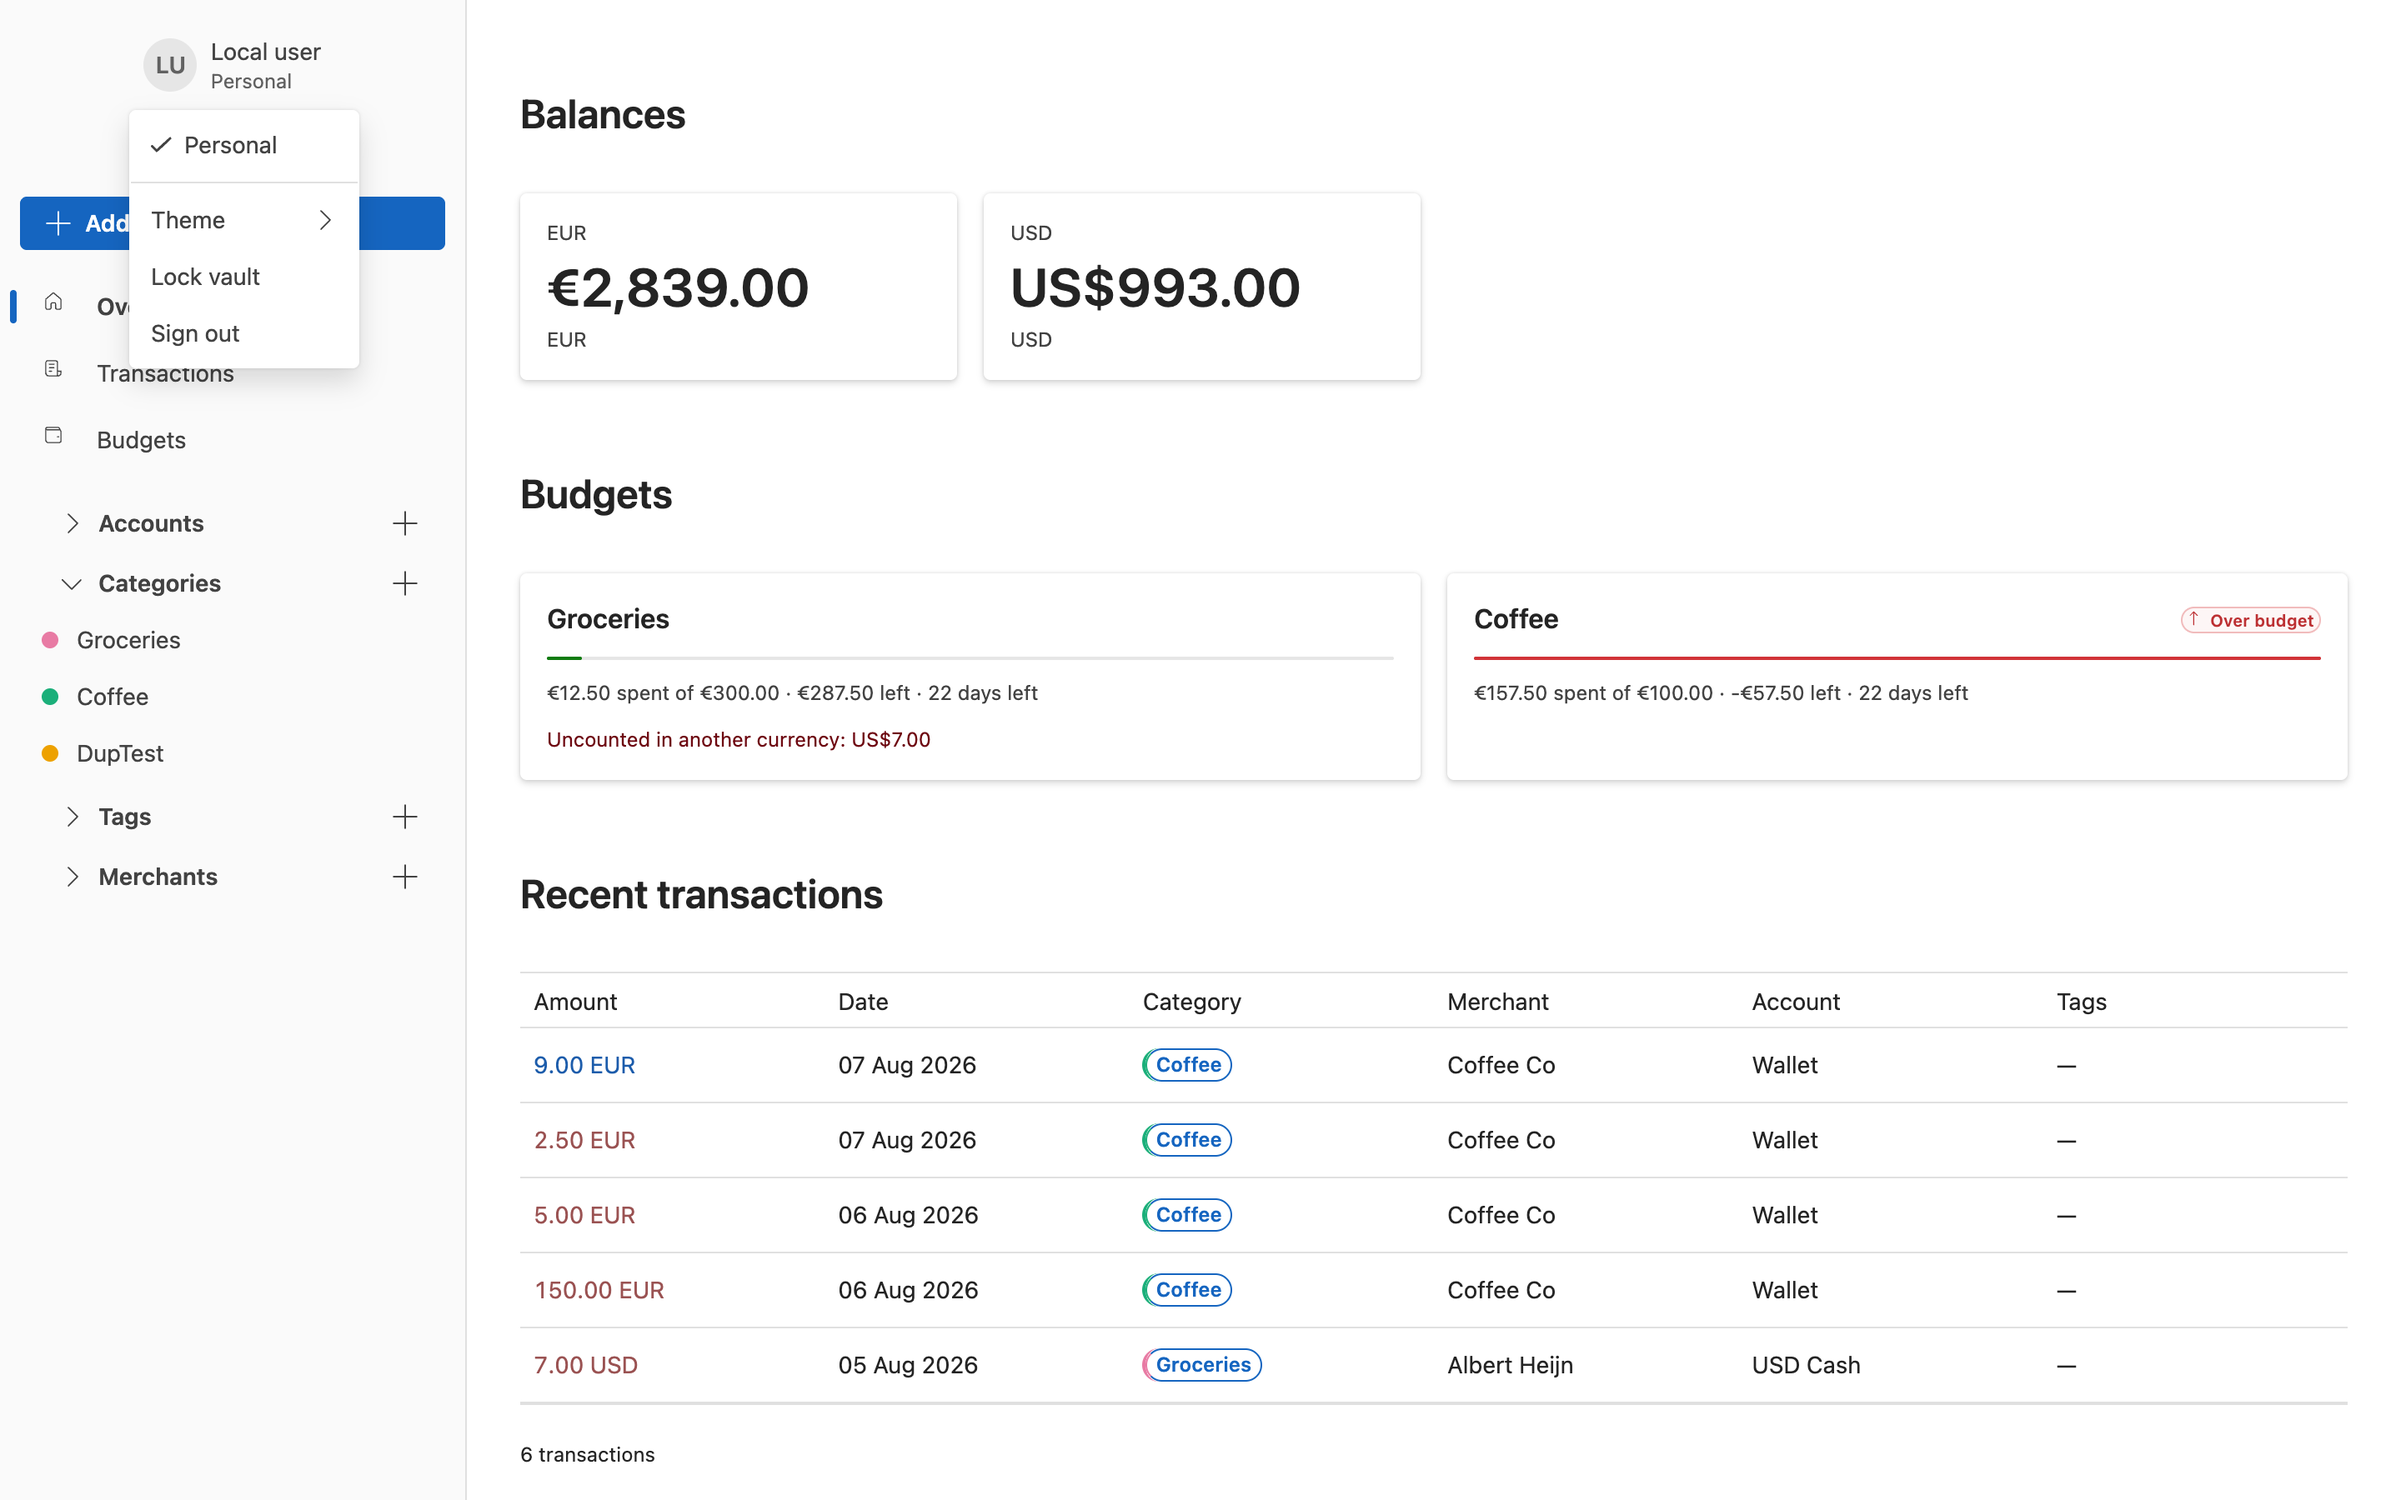
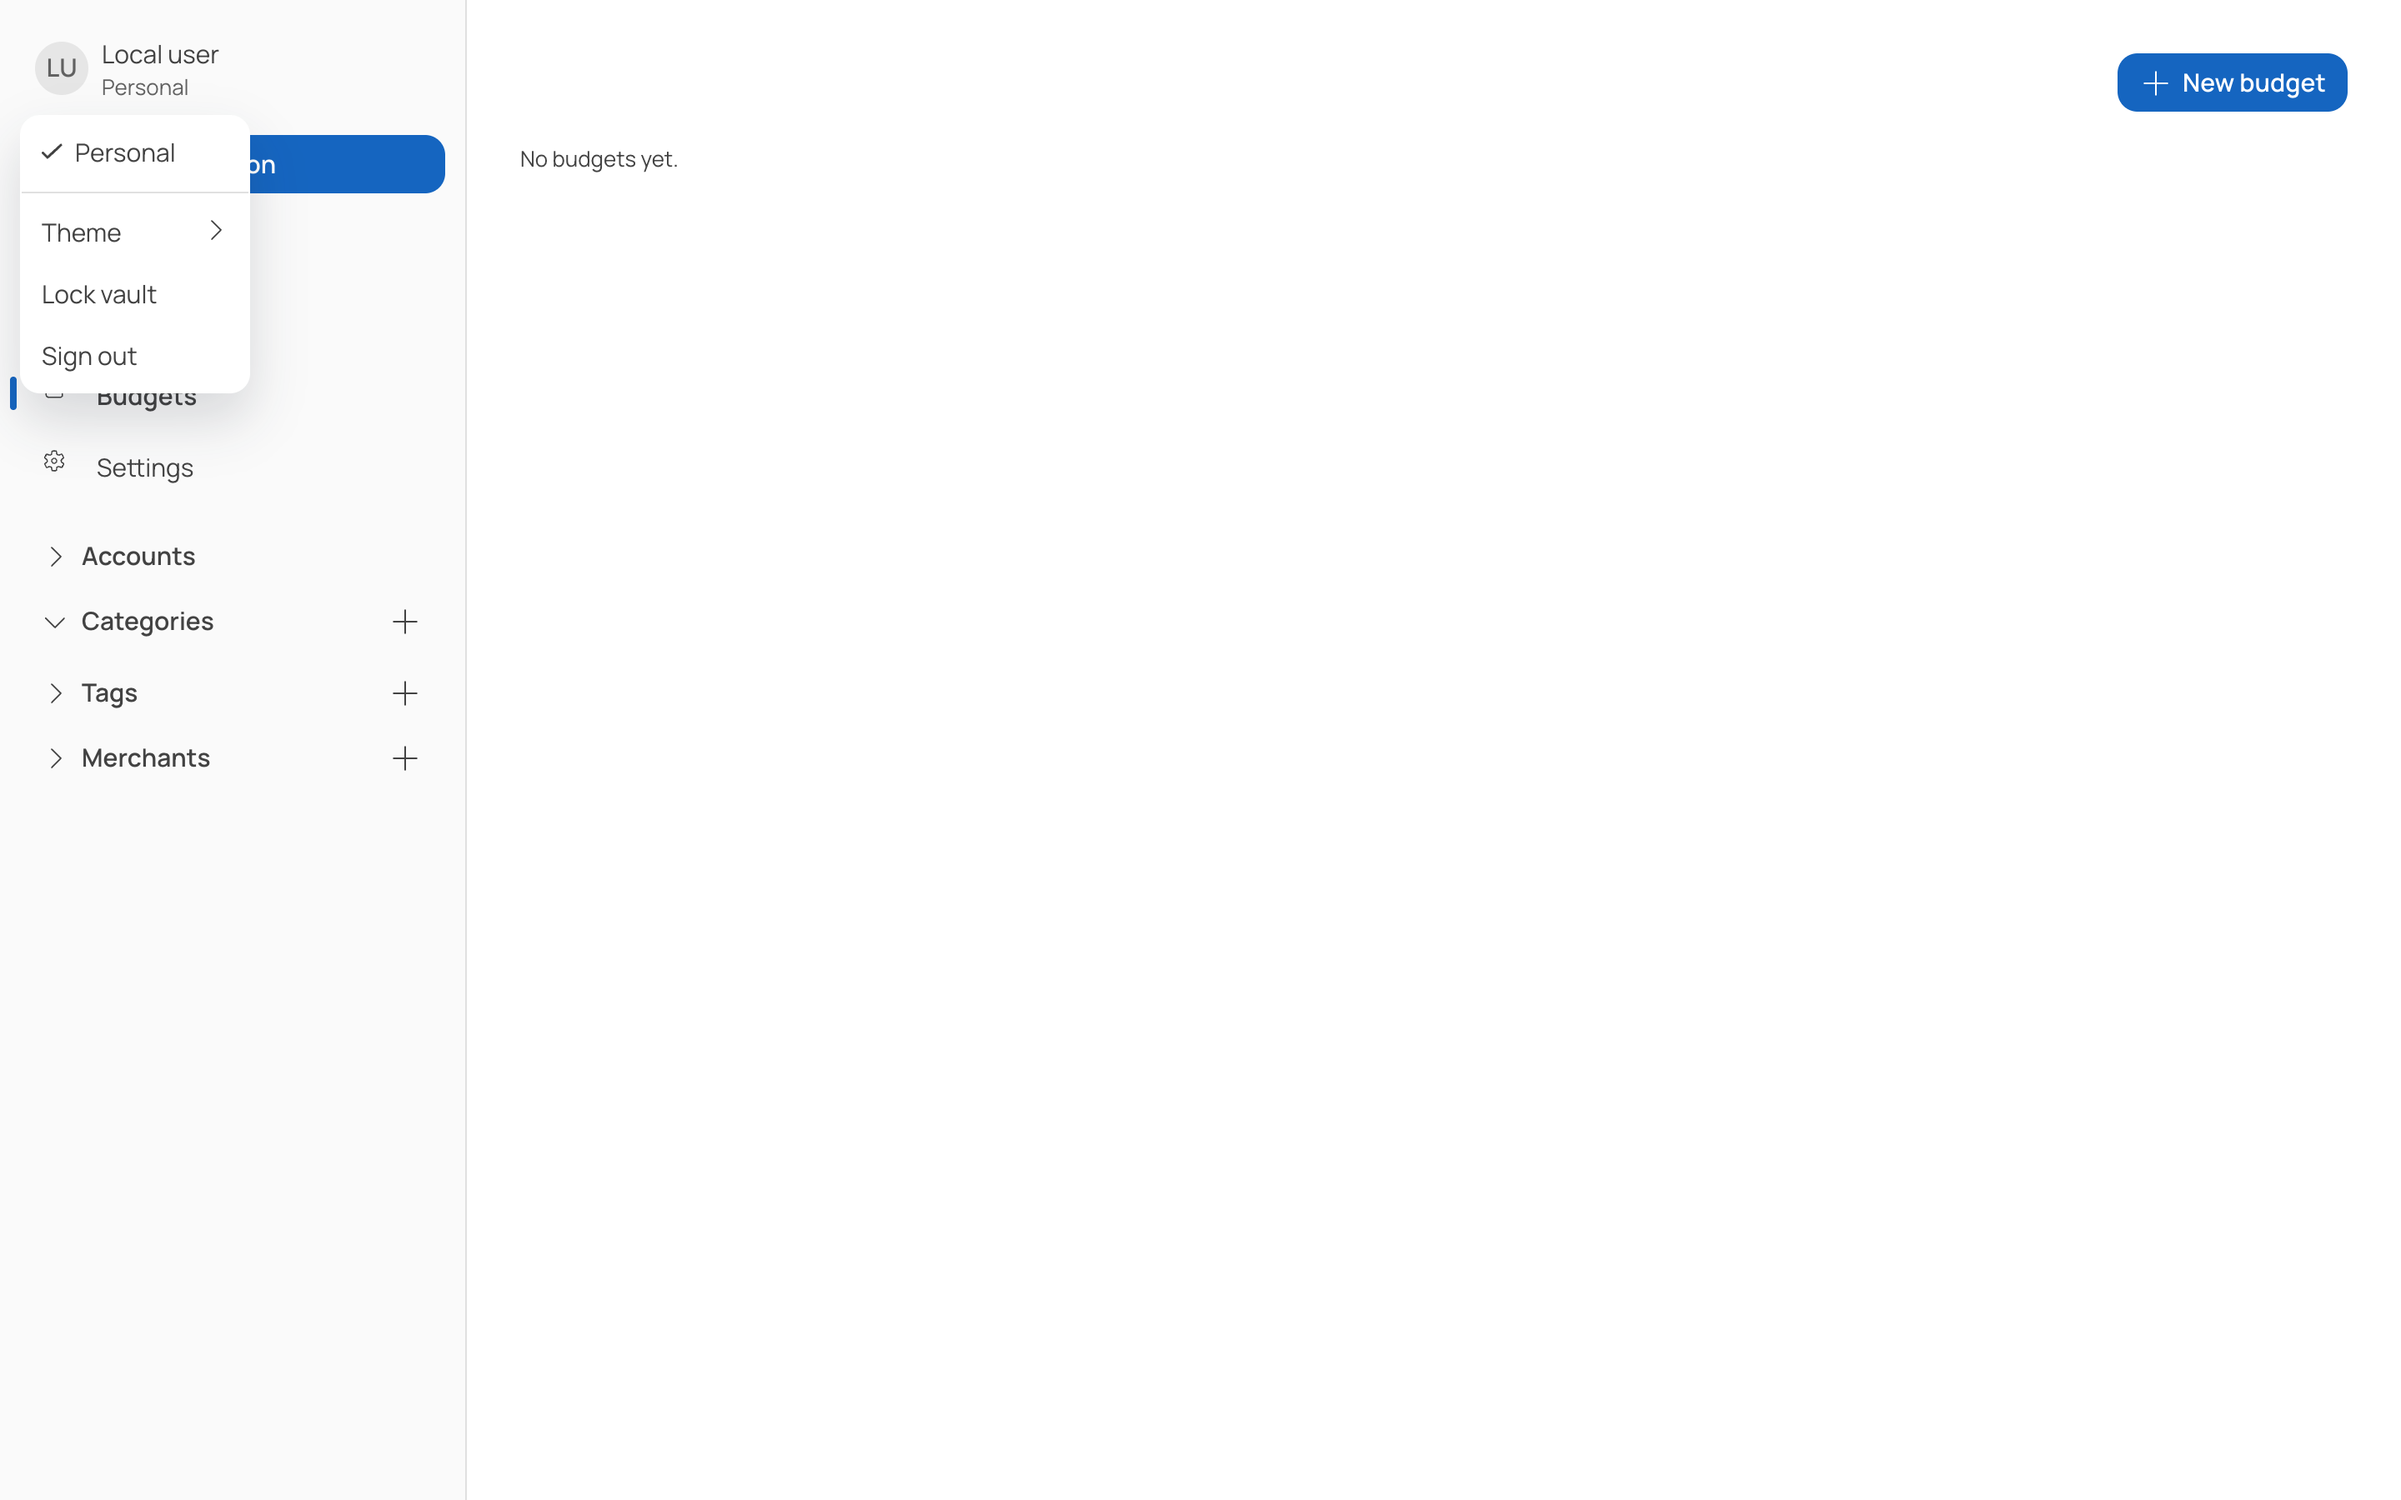
docs: bring the guides back in line with the app
The guides were written before this session's changes and several statements had
since become false: accounts were said to be created from a sidebar plus rather
than the settings page, the opening balance was described as minor units, tag
colours as two free-text hex fields, and the date and time as separate entries.
Each is corrected, and the documented gaps now include that the vault's lock
timing is not yet adjustable.

Screenshots are retaken against the current interface and note that they show a
fresh install, since an encrypted ledger starts empty.

diff --git a/README.md b/README.md
@@ -26,10 +26,10 @@ operator-initiated password reset.
 | Area | Description |
 | --- | --- |
 | Authentication | Passkey-based. A single passkey both authenticates the user and unlocks the encrypted vault |
-| Accounts | Unlimited accounts, each denominated in one currency for its lifetime |
+| Accounts | Unlimited accounts, each denominated in one currency for its lifetime, exactly one of them the default. Managed on the Settings page |
 | Transactions | Income, expense and transfer, with a deterministic natural-language entry field |
 | Categories | Ranked on a five-level necessity scale for discretionary-spending analysis |
-| Tags and merchants | Free-form labels and counterparties, creatable inline during entry |
+| Tags and merchants | Free-form labels and counterparties, creatable inline during entry. Tag colours come from checked presets |
 | Budgets | Weekly, monthly, yearly or single-period. Budgets report and never block a transaction |
 | Multi-currency | Balances and budgets reported per currency, with no conversion |
 | Sharing | Per-resource grants to a group. Currently exposed through the API only |
@@ -78,6 +78,9 @@ The documentation index is [docs/README.md](docs/README.md).
 
 ## Screenshots
 
+These are a fresh install: a new account starts with an empty, encrypted ledger and fills as you
+record.
+
 | | |
 | --- | --- |
 | ![Transactions](docs/images/transactions.png) | ![Budgets](docs/images/budgets.png) |
@@ -115,6 +118,7 @@ The following are known and intentional as of this release.
 | Supported currencies | EUR and USD |
 | Analytics | A single endpoint reporting the current day's spending by category. No charts are implemented |
 | No administrative recovery | If all unlock methods are lost, the data cannot be recovered by anyone |
+| Lock behaviour is fixed | The vault locks on every reload and after 15 minutes idle. Deliberate, but not yet adjustable |
 
 ## Testing
 

diff --git a/docs/accounts.md b/docs/accounts.md
@@ -11,14 +11,15 @@ transaction names at least one.
 | --- | --- |
 | Label | Required, up to 200 characters |
 | Currency | Chosen once, at creation, and fixed for the life of the account |
-| Opening balance | Required, zero or more, in minor units |
-| Default | Marks the account pre-selected on new transactions |
+| Opening balance | Required, zero or more, entered as you write it — `250` or `250.75` |
+| Default | Exactly one account is the default, pre-selected on new transactions |
 
 ## Creating one
 
-Use the **+** beside *Accounts* in the sidebar.
+Accounts are managed on the **Settings** page rather than from the sidebar, so a new one is a
+deliberate act rather than one stray click. The sidebar lists your accounts for filtering only.
 
-![The sidebar resource sections](images/sidebar-filters.png)
+![Managing accounts](images/settings.png)
 
 The opening balance carries a currency, and that currency denominates the account forever. The
 update form deliberately offers only the label and the default flag — there is no path to change an
@@ -30,9 +31,9 @@ are two accounts.
 
 ## The default account
 
-The first account you create becomes the default automatically. After that you set it yourself by
-editing an account. Nothing prevents marking several accounts as default; the form simply
-pre-selects one of them.
+Exactly one account is the default. The first one you create takes the flag and cannot give it up,
+because something has to be the default. Marking another account as default warns you by name that
+the current one is about to lose it, and clears it there when you save.
 
 ## How balances are computed
 

diff --git a/docs/tags.md b/docs/tags.md
@@ -11,12 +11,18 @@ A transaction may carry any number of tags, or none.
 | Field | Notes |
 | --- | --- |
 | Label | Required, up to 100 characters |
-| Background colour | Required, hex |
-| Foreground colour | Required, hex |
+| Colour | Chosen from a set of presets, or named by hand |
 
-Colours accept 3 or 6 hex digits, with or without a leading `#` — `#1a2b3c`, `1a2b3c` and `#abc`
-are all valid. Anything else is rejected with a message that shows the expected shape. They are
-stored without the `#`.
+You pick a colour from a row of preset chips, each previewing the tag as it will look. The presets
+come from the eight category slots in the design tokens, tinted for a background and deepened for
+the text, and every one is checked to clear 4.5:1 contrast — so no preset can produce a tag you
+cannot read.
+
+![Choosing a tag colour](images/tag-colours.png)
+
+If none of them suit, **Choose my own colours** exposes the background and foreground directly.
+Those accept 3 or 6 hex digits, with or without a leading `#`; anything else is rejected with a
+message showing the expected shape. Both are stored without the `#`.
 
 Create a tag with the **+** beside *Tags* in the sidebar. Tags you type into the transaction form
 are created inline if they do not exist yet, so you do not have to define one before using it.

diff --git a/docs/README.md b/docs/README.md
@@ -8,6 +8,7 @@ reports on it. It never moves money itself, and it never converts between curren
 | Guide | Covers |
 | --- | --- |
 | [Getting started](getting-started.md) | Running the stack, creating the first account, the development loop |
+| [Settings](accounts.md) | Managing accounts, and the one-default rule |
 | [Users and access](users-and-access.md) | Registration, passkeys, sessions, recovery, groups, invitations |
 | [Accounts](accounts.md) | Creating accounts, the fixed currency rule, balances, the default account |
 | [Transactions](transactions.md) | Income, expense and transfer; Quick Add; filtering; editing and deleting |
@@ -53,3 +54,5 @@ calls them yet. They are documented here so the gap is explicit rather than surp
 - Recovery-file and recovery-password sign-in
 - Registering an additional passkey
 - Budget alert thresholds, which are stored and reported but raise no notification
+- Choosing how soon the vault re-locks. It locks on every reload and after 15 minutes idle, which
+  is deliberate but not yet adjustable

diff --git a/docs/getting-started.md b/docs/getting-started.md
@@ -80,7 +80,7 @@ point and `make start` copies it to `api/.env` on first run.
 | `XPENSE_AUTH_REGISTRATION` | `Open`, `InviteOnly` or `Closed` |
 | `XPENSE_PUBLIC_URL` | The URL used in invitation links |
 | `XPENSE_EMAIL_*` | SMTP settings; with email disabled, invitation links are returned to the owner instead |
-| `XPENSE_DATA_MODE` | `legacy` or `encrypted` — see [Security and encryption](security-and-encryption.md) |
+| `XPENSE_DATA_MODE` | `legacy` or `encrypted`. Development runs `encrypted`, so each account starts empty and sees only its own records — see [Security and encryption](security-and-encryption.md) |
 
 Outside development the relying-party domain may not be `localhost` and the public URL must use
 HTTPS. The API validates both at startup and refuses to run otherwise.

diff --git a/docs/transactions.md b/docs/transactions.md
@@ -31,7 +31,7 @@ There is a single `Transaction` entity with two nullable sides rather than three
 | Counterparty account | Transfers only |
 | Category | Required on income and expense, forbidden on transfers |
 | Merchant | Required on income and expense, forbidden on transfers |
-| Date and time | Defaults to now |
+| Date and time | One control for the moment the money moved. Prefilled, so you need only change what you know |
 | Tags | Optional, any number |
 | Reason | Optional free text |
 
